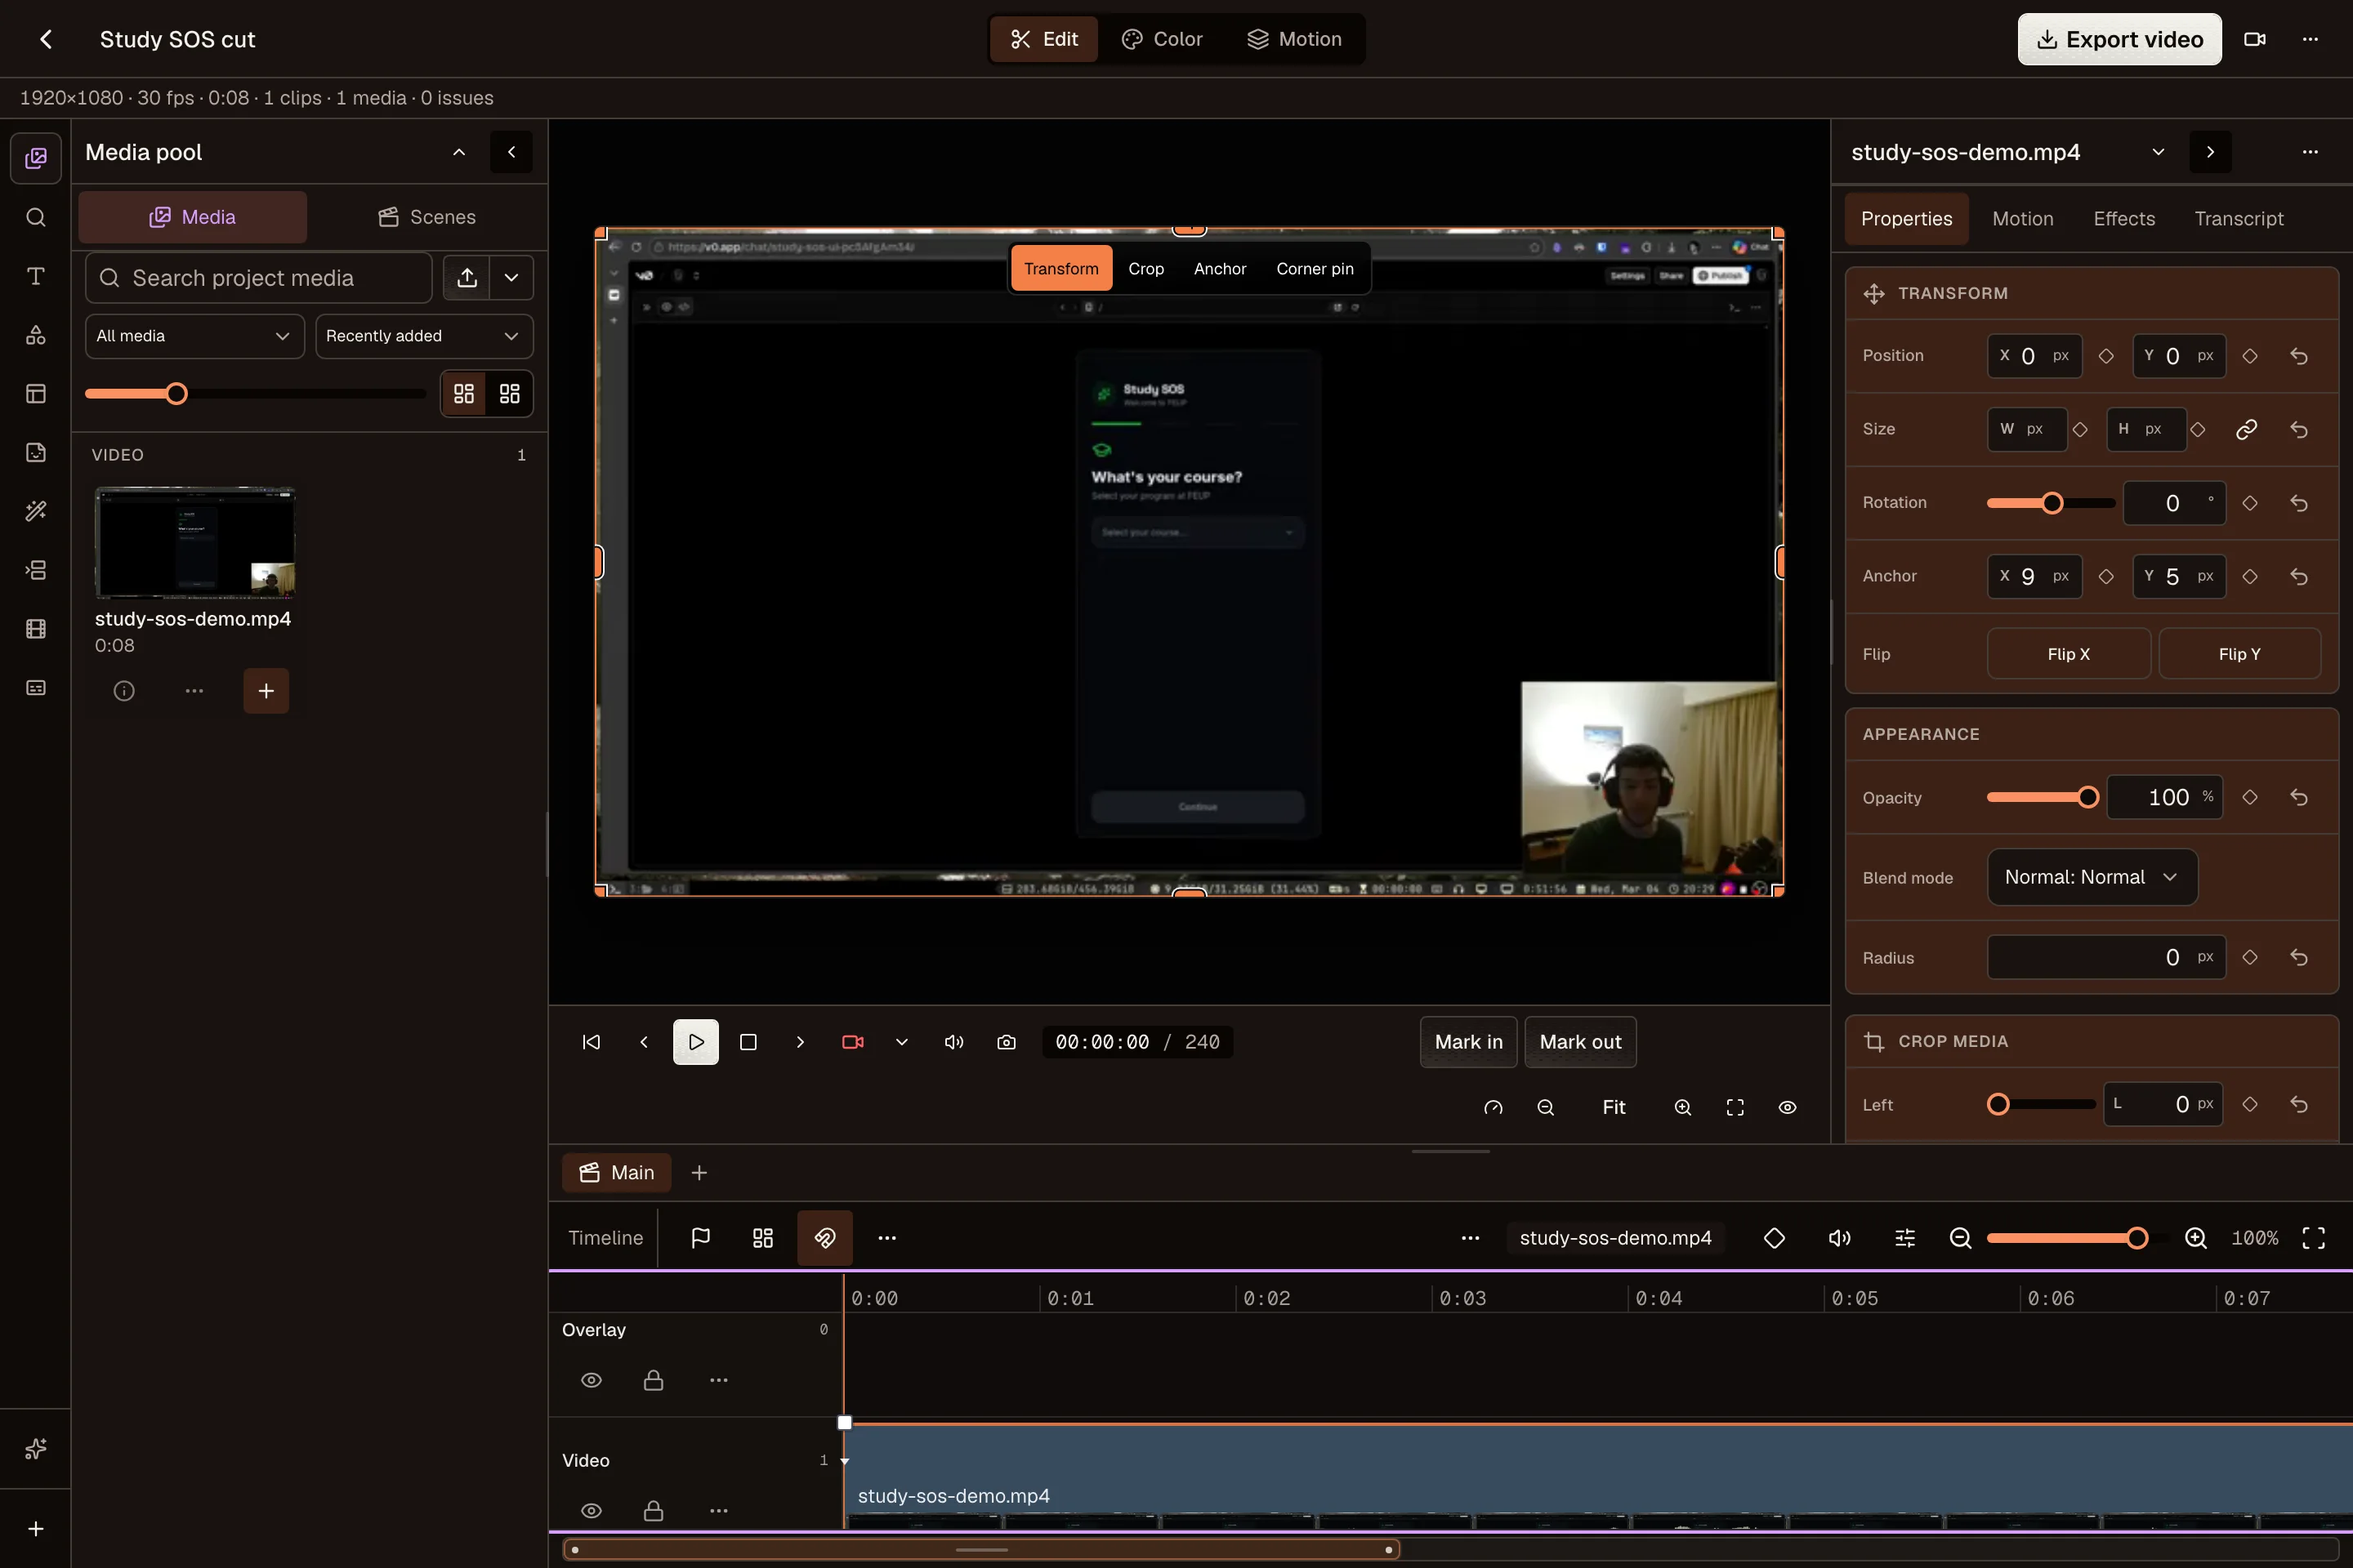
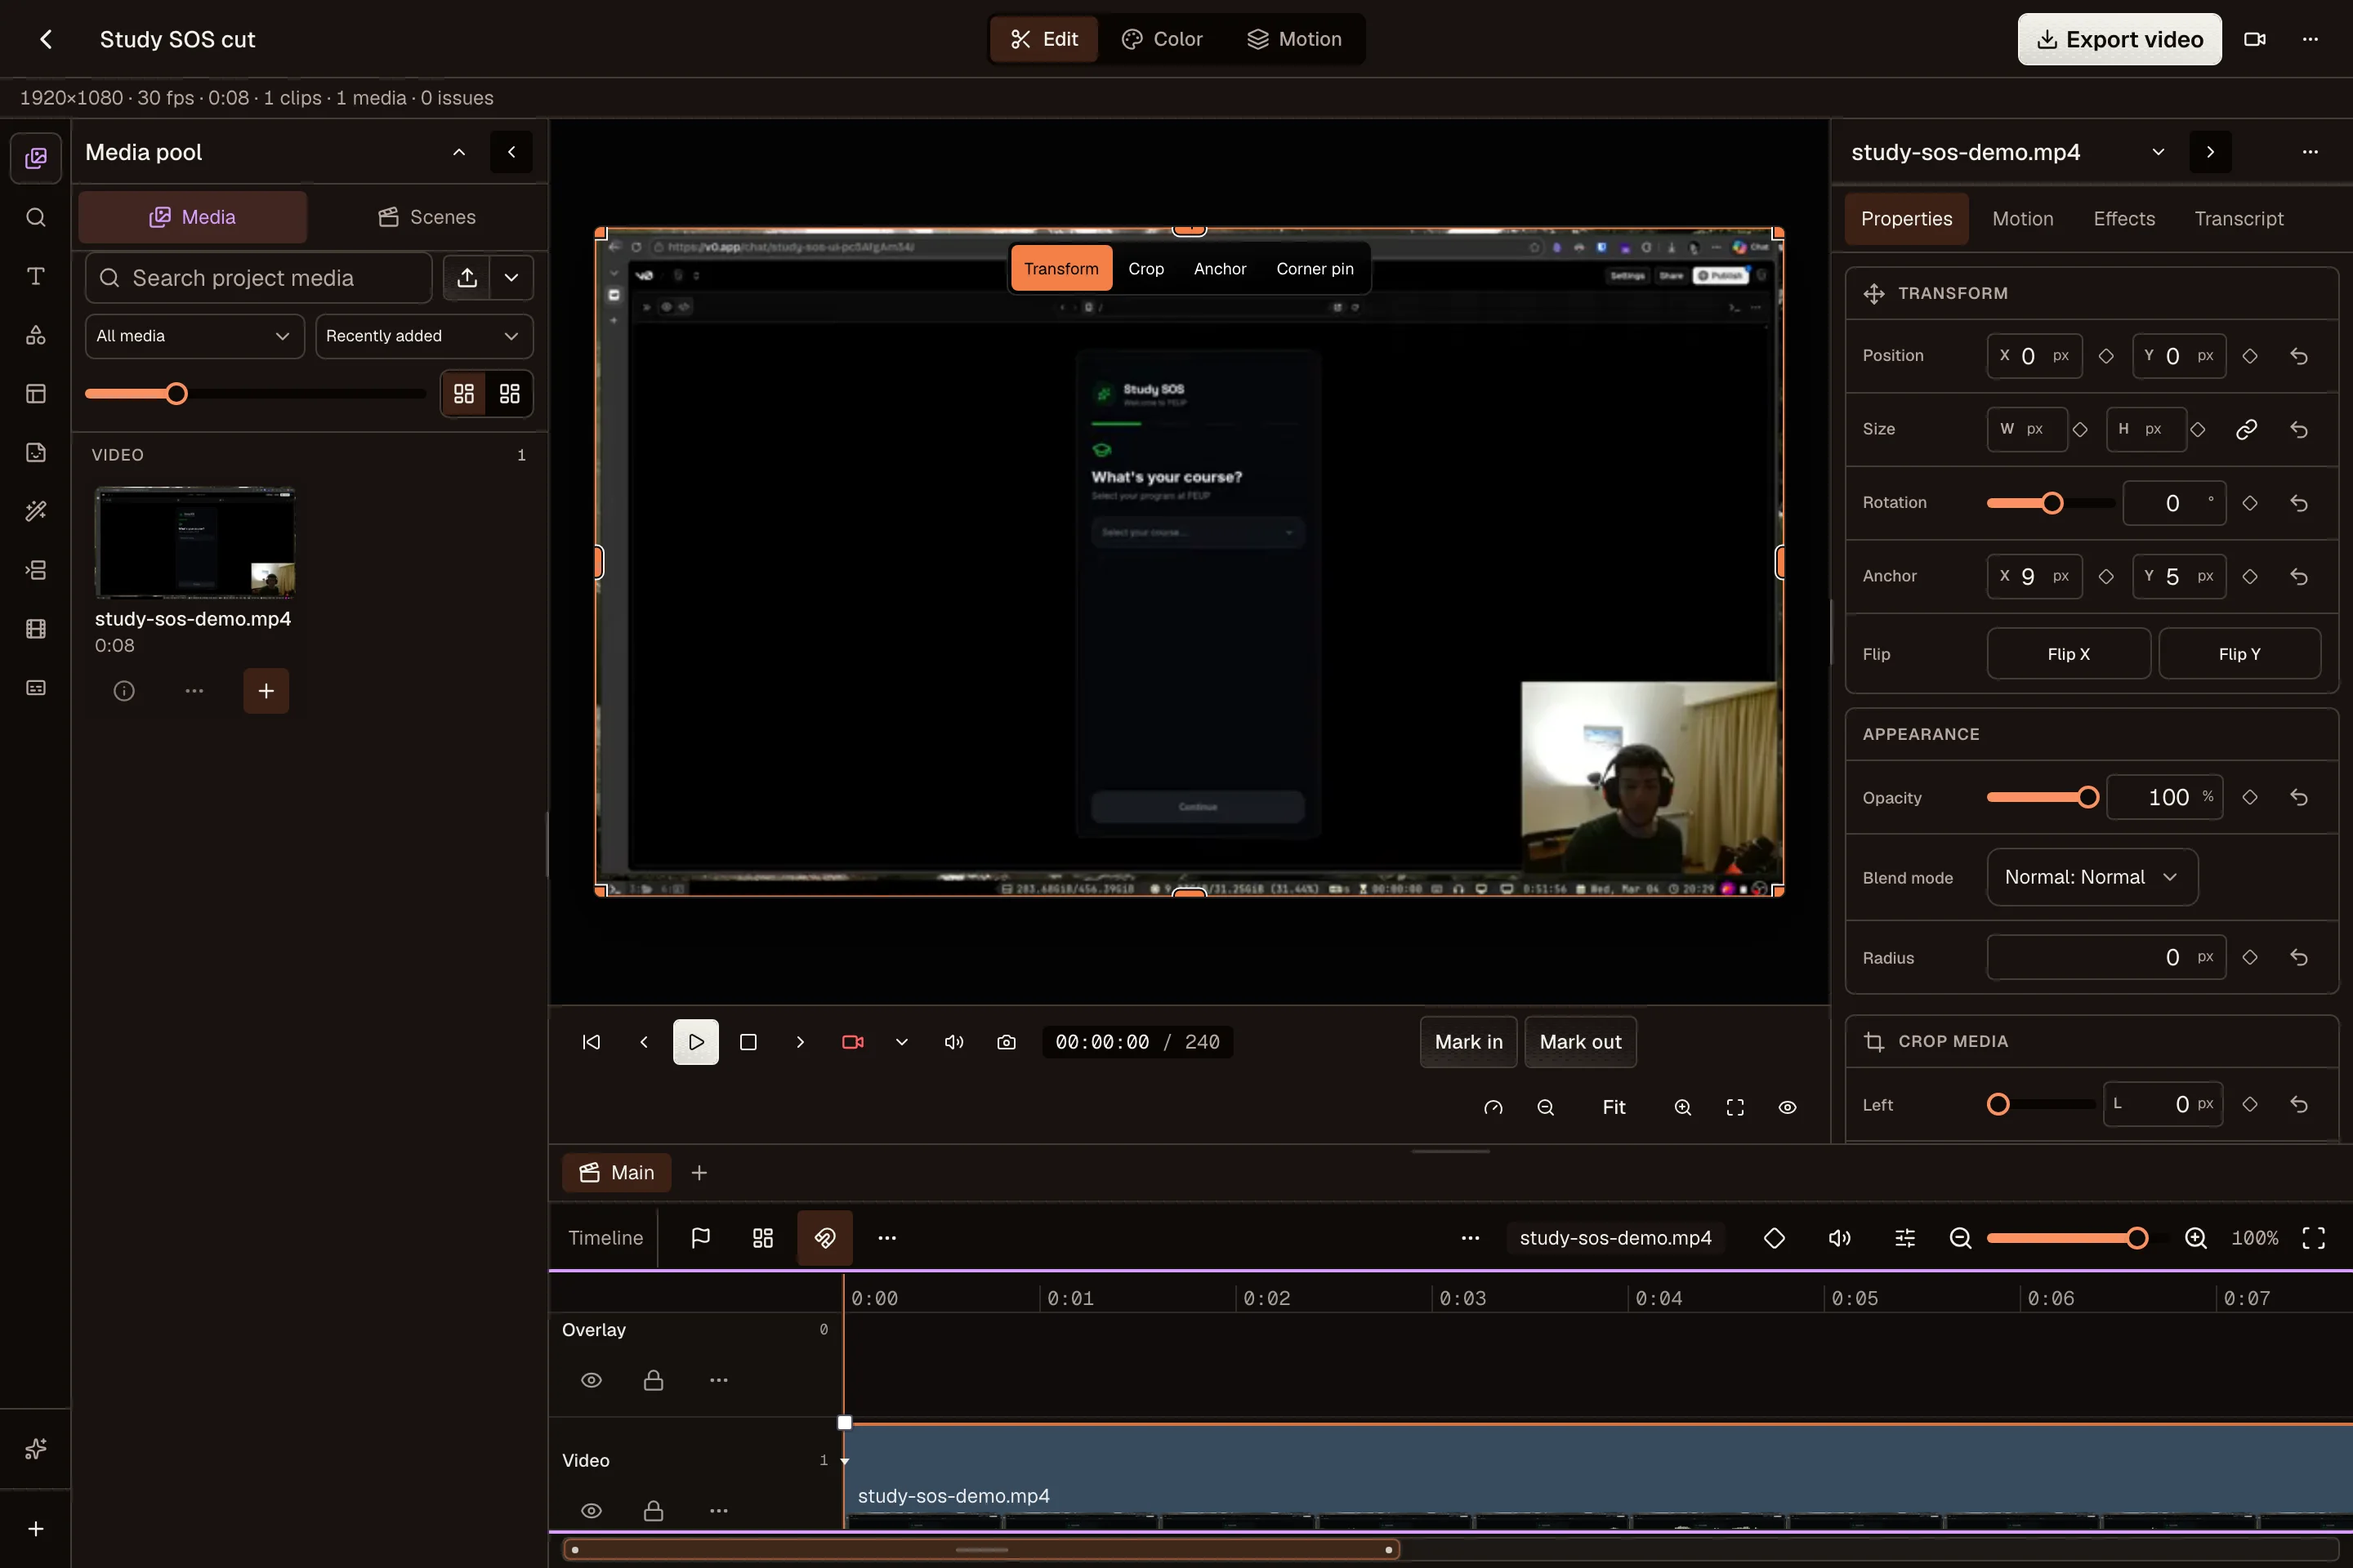
fix(video-editor): reserve accent fills for controls

Changed region(s): [[0.7812, 0.1562, 1.0, 0.75]]

diff --git a/tests/app/video-editor-panels.spec.ts b/tests/app/video-editor-panels.spec.ts
@@ -64,6 +64,49 @@ test("a collapsed asset tab opens its panel in one click", async ({ page }) => {
 });
 
 for (const scheme of ["light", "dark"] as const) {
+  test(`property panels stay neutral while controls retain their accent in ${scheme}`, async ({
+    page,
+  }, testInfo) => {
+    await page.emulateMedia({ colorScheme: scheme, reducedMotion: "reduce" });
+    await page.addInitScript((mode) => localStorage.setItem("mode-watcher-mode", mode), scheme);
+    await page.setViewportSize({ width: 1440, height: 1000 });
+    await createProject(page, "Neutral properties");
+    await page
+      .getByRole("complementary", { name: "Assets" })
+      .getByRole("button", { name: "Add layer" })
+      .click();
+    await page.getByRole("menuitem", { name: "Add text", exact: true }).click();
+    const panels = page.getByTestId("clip-transform-panel").locator("section");
+    await expect(panels).toHaveCount(2);
+    await page.screenshot({ path: testInfo.outputPath(`properties-${scheme}.png`) });
+    for (const panel of await panels.all()) {
+      const colors = await panel.evaluate((element) => {
+        const probe = document.createElement("span");
+        element.append(probe);
+        probe.style.backgroundColor = "var(--card)";
+        const neutral = getComputedStyle(probe).backgroundColor;
+        probe.style.backgroundColor = "var(--action-ordinary-hover)";
+        const hover = getComputedStyle(probe).backgroundColor;
+        probe.remove();
+        return { actual: getComputedStyle(element).backgroundColor, neutral, hover };
+      });
+      expect(colors.actual).toBe(colors.neutral);
+      expect(colors.actual).not.toBe(colors.hover);
+    }
+    const opacity = page.getByRole("slider", { name: "Opacity", exact: true });
+    await opacity.focus();
+    await opacity.press("ArrowLeft");
+    await expect(opacity).toHaveAttribute("aria-valuenow", "99");
+    for (const width of [390, 320]) {
+      await page.setViewportSize({ width, height: 900 });
+      await expect(page.locator("[data-program-monitor]")).toBeVisible();
+      expect(await page.evaluate(() => document.documentElement.scrollWidth)).toBeLessThanOrEqual(
+        width,
+      );
+      await page.screenshot({ path: testInfo.outputPath(`properties-${scheme}-${width}.png`) });
+    }
+  });
+
   test(`panel transitions preserve geometry and size in ${scheme}`, async ({ page }, testInfo) => {
     test.setTimeout(120_000);
     const errors: string[] = [];

diff --git a/apps/web/src/lib/video-editor/components/clip-audio-core-section.svelte b/apps/web/src/lib/video-editor/components/clip-audio-core-section.svelte
@@ -303,7 +303,7 @@
 {#if audioItems.length > 0}
 	<div class="flex flex-col gap-2" data-testid="clip-audio-core-section">
 		<section
-			class="overflow-hidden rounded-md border border-[var(--video-editor-border)] bg-[var(--video-editor-control-hover)]"
+			class="overflow-hidden rounded-md border border-[var(--video-editor-border)] bg-[var(--video-editor-panel)]"
 		>
 			<h3
 				class="flex h-8 items-center gap-2 border-b border-[var(--video-editor-border)] px-2.5 text-[10px] font-semibold tracking-wider text-[var(--video-editor-muted)] uppercase"
@@ -345,7 +345,7 @@
 			</div>
 		</section>
 		<section
-			class="overflow-hidden rounded-md border border-[var(--video-editor-border)] bg-[var(--video-editor-control-hover)]"
+			class="overflow-hidden rounded-md border border-[var(--video-editor-border)] bg-[var(--video-editor-panel)]"
 		>
 			<h3
 				class="flex h-8 items-center gap-2 border-b border-[var(--video-editor-border)] px-2.5 text-[10px] font-semibold tracking-wider text-[var(--video-editor-muted)] uppercase"

diff --git a/apps/web/src/lib/video-editor/components/clip-transform-section.svelte b/apps/web/src/lib/video-editor/components/clip-transform-section.svelte
@@ -295,7 +295,7 @@
 
 <div class="flex flex-col gap-2" data-testid="clip-transform-panel">
 	<section
-		class="overflow-hidden rounded-md border border-[var(--video-editor-border)] bg-[var(--video-editor-control-hover)]"
+		class="overflow-hidden rounded-md border border-[var(--video-editor-border)] bg-[var(--video-editor-panel)]"
 		data-testid="clip-transform-section"
 	>
 		<h3
@@ -473,7 +473,7 @@
 	</section>
 
 	<section
-		class="overflow-hidden rounded-md border border-[var(--video-editor-border)] bg-[var(--video-editor-control-hover)]"
+		class="overflow-hidden rounded-md border border-[var(--video-editor-border)] bg-[var(--video-editor-panel)]"
 	>
 		<h3
 			class="flex h-8 items-center border-b border-[var(--video-editor-border)] px-2.5 text-[10px] font-semibold tracking-wider text-[var(--video-editor-muted)] uppercase"

diff --git a/apps/web/src/lib/video-editor/components/audio-eq-panel.svelte b/apps/web/src/lib/video-editor/components/audio-eq-panel.svelte
@@ -415,7 +415,7 @@
 			{#each bands as band (band.key)}
 				{@const bandType = value(band, 'typeKey')}
 				<details
-					class="rounded border border-[var(--video-editor-border)] bg-[var(--video-editor-control-hover)]"
+					class="rounded border border-[var(--video-editor-border)] bg-[var(--video-editor-panel)]"
 				>
 					<summary class="flex min-h-8 cursor-pointer list-none items-center gap-2 px-2 text-xs">
 						<span class="w-14 font-medium text-[var(--video-editor-muted)]">{band.label()}</span>

diff --git a/apps/web/src/lib/video-editor/components/audio-ducking-panel.svelte b/apps/web/src/lib/video-editor/components/audio-ducking-panel.svelte
@@ -202,7 +202,7 @@
 						{m.video_editor_duck_targets_hint()}
 					</p>
 					<div
-						class="grid max-h-32 grid-cols-1 gap-1 overflow-y-auto rounded bg-[var(--video-editor-control-hover)] p-2"
+						class="grid max-h-32 grid-cols-1 gap-1 overflow-y-auto rounded bg-[var(--video-editor-panel)] p-2"
 					>
 						{#each availableTracks as track (track.id)}
 							<label

diff --git a/apps/web/src/lib/video-editor/components/effects-panel.svelte b/apps/web/src/lib/video-editor/components/effects-panel.svelte
@@ -696,7 +696,7 @@
 							{#snippet child({ props })}
 								<div
 									{...props}
-									class="flex min-h-8 items-center justify-between gap-1 bg-[var(--video-editor-control-hover)] px-1"
+									class="flex min-h-8 items-center justify-between gap-1 bg-[var(--video-editor-panel)] px-1"
 									data-effect-context-trigger
 								>
 									<button

diff --git a/apps/web/src/lib/video-editor/components/animated-image-playback-section.svelte b/apps/web/src/lib/video-editor/components/animated-image-playback-section.svelte
@@ -96,7 +96,7 @@
 
 {#if items.length > 0}
 	<section
-		class="overflow-hidden rounded-md border border-[var(--video-editor-border)] bg-[var(--video-editor-control-hover)]"
+		class="overflow-hidden rounded-md border border-[var(--video-editor-border)] bg-[var(--video-editor-panel)]"
 		data-testid="animated-image-playback-section"
 	>
 		<h3

diff --git a/apps/web/src/lib/video-editor/components/clip-playback-section.svelte b/apps/web/src/lib/video-editor/components/clip-playback-section.svelte
@@ -177,7 +177,7 @@
 
 {#if items.length > 0}
 	<section
-		class="overflow-hidden rounded-md border border-[var(--video-editor-border)] bg-[var(--video-editor-control-hover)]"
+		class="overflow-hidden rounded-md border border-[var(--video-editor-border)] bg-[var(--video-editor-panel)]"
 		data-testid="clip-playback-section"
 	>
 		<h3

diff --git a/apps/web/src/lib/video-editor/components/clip-crop-section.svelte b/apps/web/src/lib/video-editor/components/clip-crop-section.svelte
@@ -192,7 +192,7 @@
 
 {#if items.length > 0}
 	<section
-		class="overflow-hidden rounded-md border border-[var(--video-editor-border)] bg-[var(--video-editor-control-hover)]"
+		class="overflow-hidden rounded-md border border-[var(--video-editor-border)] bg-[var(--video-editor-panel)]"
 		data-testid="clip-crop-section"
 	>
 		<h3

diff --git a/changes/ui-dither-restraint.md b/changes/ui-dither-restraint.md
@@ -1,0 +1,3 @@
+### Fixed
+
+- Keep Video Editor property, playback, audio, and effect panels neutral while preserving the active theme on controls.
